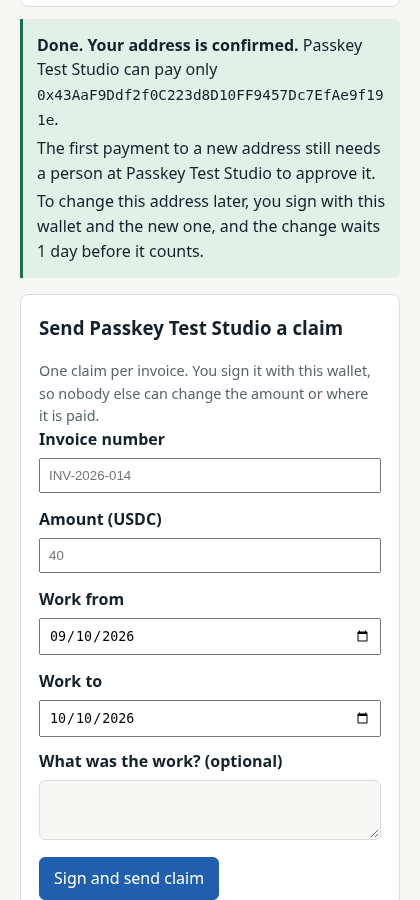
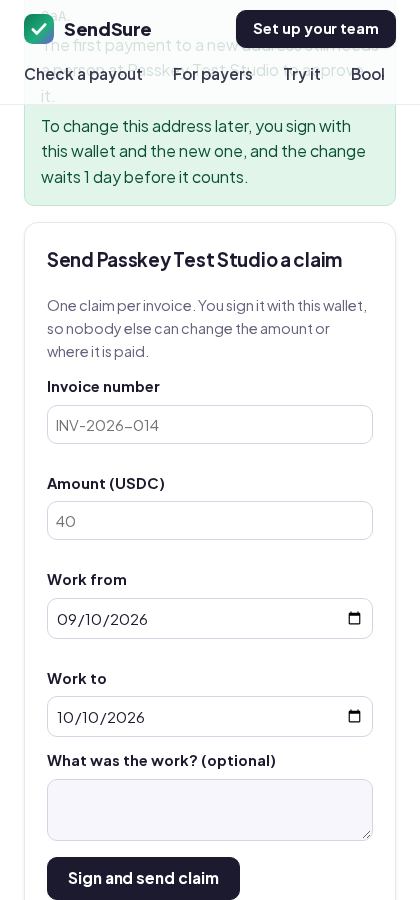
Phones: the two-row header stays in the page instead of covering it; browser runs re-checked on the new design (wallet 14/14, passkey 7/7)

diff --git a/apps/web/app/globals.css b/apps/web/app/globals.css
@@ -70,7 +70,7 @@ main { padding-block: 40px 88px; min-height: 60vh; }
 /* ------------------------------------------------------------------ header */
 header.site {
   position: sticky; top: 0; z-index: 50;
-  background: rgba(255, 255, 255, 0.82);
+  background: rgba(255, 255, 255, 0.9);
   backdrop-filter: saturate(180%) blur(14px);
   -webkit-backdrop-filter: saturate(180%) blur(14px);
   border-bottom: 1px solid rgba(232, 230, 241, 0.8);
@@ -84,6 +84,8 @@ header.site nav a:hover { color: var(--ink); background: var(--bg-tint); }
 header.site .actions { margin-left: auto; display: flex; gap: 10px; align-items: center; }
 header.site .actions .btn { padding: 9px 16px; font-size: 0.92rem; }
 @media (max-width: 980px) {
+  /* Two rows on small screens: keep it in the page (not sticky) so it never covers the content. */
+  header.site { position: static; background: #fff; backdrop-filter: none; -webkit-backdrop-filter: none; }
   header.site .wrap { flex-wrap: wrap; gap: 6px 16px; padding-block: 10px; }
   header.site nav { order: 3; width: 100%; overflow-x: auto; flex-wrap: nowrap; margin-inline: -12px; }
   header.site nav a { white-space: nowrap; }
